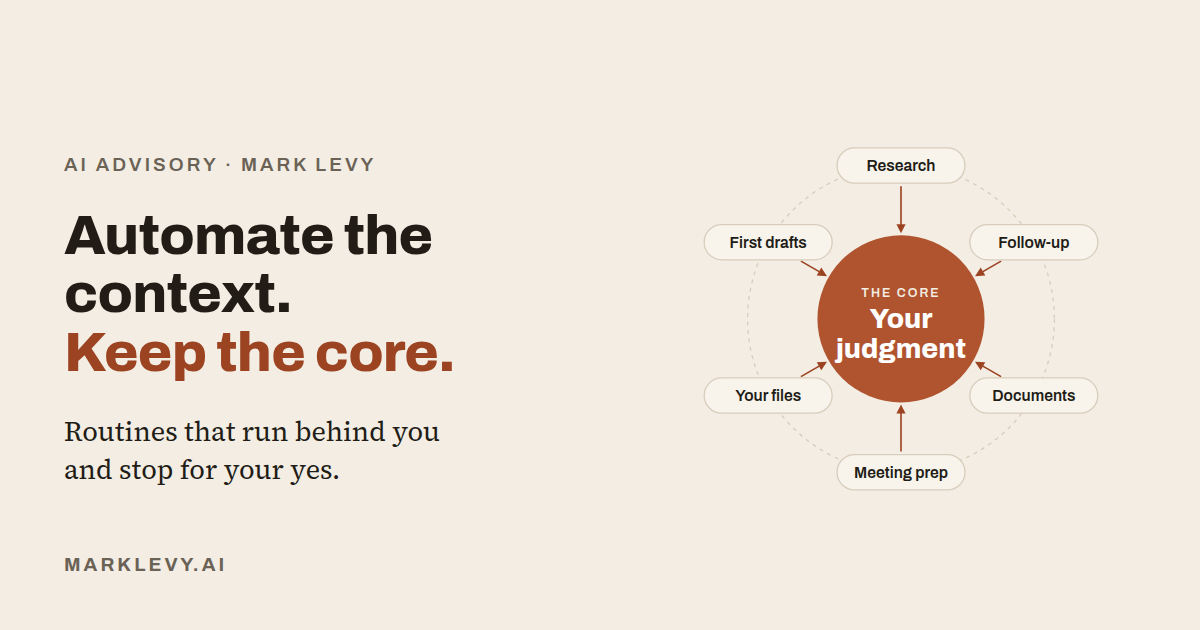
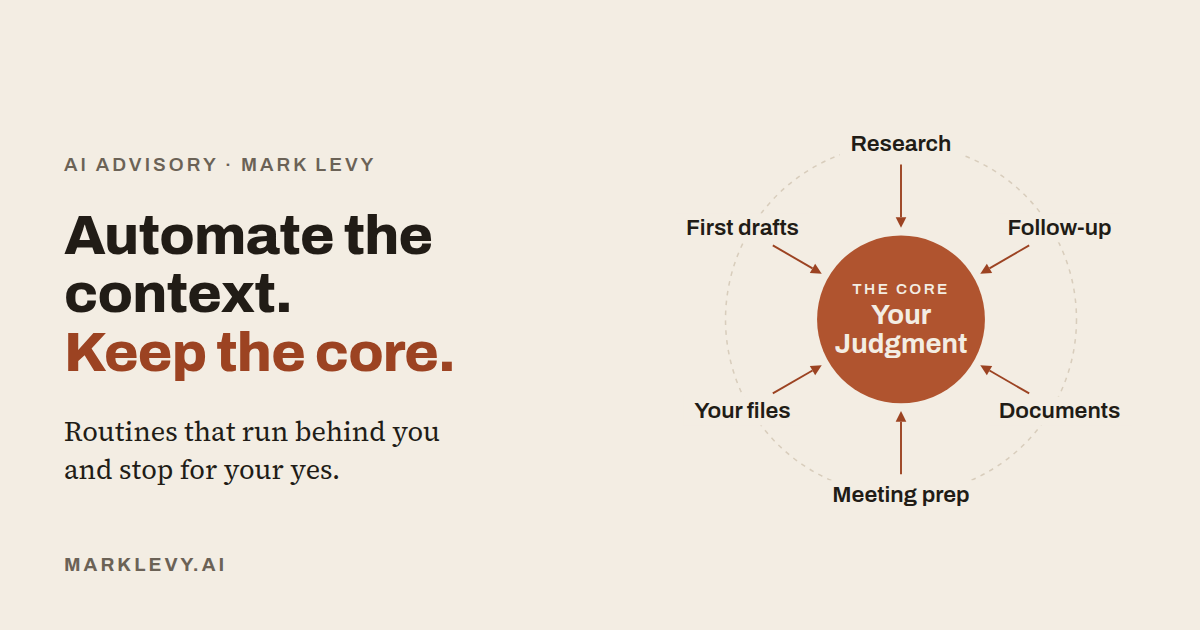
Hero rebalance (design review): align to nav, pin figure to headline, lighter figure
From an independent design review of the hero:
- Hero container back to the nav's 66rem so the left edges line up
  (the 76rem hero sat 80px left of the logo at 1440).
- Hero text becomes grid rows (.hero-text { display: contents }); the
  figure is pinned to the headline's top and spans headline + subtitle,
  so the two columns read as one composition instead of a figure
  floating mid-height. Headline 2.7rem at 1100px+ keeps the 4-line
  sentence breaks in the narrower column and brings the CTA above a
  900px-tall laptop fold.
- Figure redrawn: no pill boxes (labels sit on the ring with paper
  knockouts, like the ledger figure), disc r=110, even 60-69px spokes,
  viewBox cropped to the drawing; labels ~17px on phones (were ~11px);
  kicker and words share one paper color.
- Disc label "Your Judgment" in title case (owner decision).
- images/og/home.png re-rendered from the new figure.

Claude-Session: https://claude.ai/code/session_01YChwobwTdEwcPZCWvJAq1B

diff --git a/index.html b/index.html
@@ -160,28 +160,37 @@
             </div>
             </div>
             <!-- Core vs. context figure (2026-10-02). The positioning in one picture: routines run in the
-                 ring, every arrow ends at the owner's judgment. Labels mirror the subtitle; keep them in step. -->
+                 ring, every arrow ends at the owner's judgment. Labels mirror the subtitle; keep them in step.
+                 Labels sit on the ring with a paper-colored knockout behind each one (no boxes: the ledger
+                 figure's language is hairlines, type and one accent). Geometry is generated from measured
+                 label widths; the viewBox is cropped to the drawing, center at (360,320). -->
             <figure class="hero-figure">
-                <svg viewBox="0 0 720 640" role="img" aria-labelledby="core-title core-desc" xmlns="http://www.w3.org/2000/svg">
+                <svg viewBox="52 56 616 528" role="img" aria-labelledby="core-title core-desc" xmlns="http://www.w3.org/2000/svg">
                     <title id="core-title">The core and the context</title>
                     <desc id="core-desc">A solid circle in the center labeled the core: your judgment. Around it, a dashed ring of six kinds of context work: research, follow-up, documents, meeting preparation, your files, and first drafts. An arrow runs from each one inward to the core, because every routine stops for your approval.</desc>
-                    <circle class="core-ring" cx="360" cy="320" r="235"/>
-                    <path class="ctx-spoke" d="M 360.0 117.0 L 360.0 176.0"/><polygon class="ctx-arrowhead" points="360.0,189.0 353.0,175.0 367.0,175.0"/>
-                    <path class="ctx-spoke" d="M 513.3 231.5 L 484.7 248.0"/><polygon class="ctx-arrowhead" points="473.4,254.5 482.1,241.4 489.1,253.6"/>
-                    <path class="ctx-spoke" d="M 513.3 408.5 L 484.7 392.0"/><polygon class="ctx-arrowhead" points="473.4,385.5 489.1,386.4 482.1,398.6"/>
-                    <path class="ctx-spoke" d="M 360.0 523.0 L 360.0 464.0"/><polygon class="ctx-arrowhead" points="360.0,451.0 367.0,465.0 353.0,465.0"/>
-                    <path class="ctx-spoke" d="M 206.7 408.5 L 235.3 392.0"/><polygon class="ctx-arrowhead" points="246.6,385.5 237.9,398.6 230.9,386.4"/>
-                    <path class="ctx-spoke" d="M 206.7 231.5 L 235.3 248.0"/><polygon class="ctx-arrowhead" points="246.6,254.5 230.9,253.6 237.9,241.4"/>
-                    <rect class="ctx-pill" x="262.0" y="58.0" width="196" height="54" rx="27"/><text class="ctx-label" x="360.0" y="93.5" text-anchor="middle">Research</text>
-                    <rect class="ctx-pill" x="465.5" y="175.5" width="196" height="54" rx="27"/><text class="ctx-label" x="563.5" y="211.0" text-anchor="middle">Follow-up</text>
-                    <rect class="ctx-pill" x="465.5" y="410.5" width="196" height="54" rx="27"/><text class="ctx-label" x="563.5" y="446.0" text-anchor="middle">Documents</text>
-                    <rect class="ctx-pill" x="262.0" y="528.0" width="196" height="54" rx="27"/><text class="ctx-label" x="360.0" y="563.5" text-anchor="middle">Meeting prep</text>
-                    <rect class="ctx-pill" x="58.5" y="410.5" width="196" height="54" rx="27"/><text class="ctx-label" x="156.5" y="446.0" text-anchor="middle">Your files</text>
-                    <rect class="ctx-pill" x="58.5" y="175.5" width="196" height="54" rx="27"/><text class="ctx-label" x="156.5" y="211.0" text-anchor="middle">First drafts</text>
-                    <circle class="core-disc" cx="360" cy="320" r="128"/>
-                    <text class="core-kicker" x="360" y="290" text-anchor="middle">THE CORE</text>
-                    <text class="core-word" x="360" y="331" text-anchor="middle">Your</text>
-                    <text class="core-word" x="360" y="370" text-anchor="middle">judgment</text>
+                    <circle class="core-ring" cx="360" cy="320" r="230"/>
+                    <rect class="ctx-knockout" x="279.9" y="71.0" width="160.2" height="38"/>
+                    <path class="ctx-spoke" d="M 360.0 117.0 L 360.0 186.0"/><polygon class="ctx-arrowhead" points="360.0,200.0 367.0,186.0 353.0,186.0"/>
+                    <text class="ctx-label" x="360.0" y="90.0" text-anchor="middle" dominant-baseline="central">Research</text>
+                    <rect class="ctx-knockout" x="485.7" y="181.0" width="164.2" height="38"/>
+                    <path class="ctx-spoke" d="M 528.0 223.0 L 476.0 253.0"/><polygon class="ctx-arrowhead" points="463.9,260.0 479.5,259.1 472.5,246.9"/>
+                    <text class="ctx-label" x="567.8" y="200.0" text-anchor="middle" dominant-baseline="central">Follow-up</text>
+                    <rect class="ctx-knockout" x="474.2" y="421.0" width="187.4" height="38"/>
+                    <path class="ctx-spoke" d="M 528.0 417.0 L 476.0 387.0"/><polygon class="ctx-arrowhead" points="463.9,380.0 472.5,393.1 479.5,380.9"/>
+                    <text class="ctx-label" x="567.8" y="440.0" text-anchor="middle" dominant-baseline="central">Documents</text>
+                    <rect class="ctx-knockout" x="256.0" y="531.0" width="208.0" height="38"/>
+                    <path class="ctx-spoke" d="M 360.0 523.0 L 360.0 454.0"/><polygon class="ctx-arrowhead" points="360.0,440.0 353.0,454.0 367.0,454.0"/>
+                    <text class="ctx-label" x="360.0" y="550.0" text-anchor="middle" dominant-baseline="central">Meeting prep</text>
+                    <rect class="ctx-knockout" x="75.0" y="421.0" width="154.3" height="38"/>
+                    <path class="ctx-spoke" d="M 192.0 417.0 L 244.0 387.0"/><polygon class="ctx-arrowhead" points="256.1,380.0 240.5,380.9 247.5,393.1"/>
+                    <text class="ctx-label" x="152.2" y="440.0" text-anchor="middle" dominant-baseline="central">Your files</text>
+                    <rect class="ctx-knockout" x="64.1" y="181.0" width="176.1" height="38"/>
+                    <path class="ctx-spoke" d="M 192.0 223.0 L 244.0 253.0"/><polygon class="ctx-arrowhead" points="256.1,260.0 247.5,246.9 240.5,259.1"/>
+                    <text class="ctx-label" x="152.2" y="200.0" text-anchor="middle" dominant-baseline="central">First drafts</text>
+                    <circle class="core-disc" cx="360" cy="320" r="110"/>
+                    <text class="core-kicker" x="360" y="287" text-anchor="middle">THE CORE</text>
+                    <text class="core-word" x="360" y="326" text-anchor="middle">Your</text>
+                    <text class="core-word" x="360" y="364" text-anchor="middle">Judgment</text>
                 </svg>
             </figure>
         </div>

diff --git a/styles.css b/styles.css
@@ -772,26 +772,35 @@ a.article-card:hover { border-color: var(--accent); }
 }
 .home-figure figcaption { font-size: 0.92rem; line-height: 1.55; color: var(--muted); margin-top: 0.9em; }
 
-/* Hero: text + "core vs. context" figure side by side when there is room */
+/* Hero: text + "core vs. context" figure side by side when there is room.
+   The hero keeps the nav's measure so the page edges line up. The text block becomes
+   display: contents, so eyebrow / title / subtitle / CTA are grid rows and the figure is
+   pinned to the title's top edge and the subtitle's bottom — a headline with its
+   illustration, not two objects floating against each other. */
 .hero-figure { max-width: 26rem; margin: 3rem 0 0; }
+.hero-figure svg { display: block; width: 100%; height: auto; }
 @media (min-width: 1100px) {
     .hero .container {
-        max-width: 76rem;
+        max-width: var(--measure-wide);
         display: grid;
-        grid-template-columns: minmax(0, 1.15fr) minmax(0, 1fr);
-        column-gap: 4rem;
-        align-items: center;
+        grid-template-columns: minmax(0, 1.1fr) minmax(0, 1fr);
+        column-gap: 3.5rem;
+        align-items: start;
     }
-    /* Wider hero + a larger figure so it holds its own against the text column (2026-10-02). */
-    .hero-figure { margin: 0; max-width: none; }
+    .hero-text { display: contents; }
+    .hero-text > * { grid-column: 1; }
+    .hero-figure { grid-column: 2; grid-row: 2 / span 2; align-self: start; margin: 0; max-width: none; }
+    /* Largest size that keeps the title's four-line break in the narrower column
+       (sentence break = line break, the accent sentence starts a line). */
+    .hero-title { font-size: 2.7rem; }
 }
 
 .core-ring { fill: none; stroke: var(--hairline); stroke-width: 2; stroke-dasharray: 6 7; }
 .core-disc { fill: var(--accent); }
-.core-kicker { font-family: var(--display); font-weight: 600; font-size: 19px; letter-spacing: 0.16em; fill: var(--paper); }
-.core-word { font-family: var(--display); font-weight: 700; font-size: 35px; fill: #ffffff; }
-.ctx-pill { fill: var(--paper-raised); stroke: var(--hairline); stroke-width: 2; }
-.ctx-label { font-family: var(--display); font-weight: 600; font-size: 24px; fill: var(--ink); }
+.core-kicker { font-family: var(--display); font-weight: 600; font-size: 20px; letter-spacing: 0.16em; fill: var(--paper); }
+.core-word { font-family: var(--display); font-weight: 700; font-size: 36px; fill: var(--paper); }
+.ctx-knockout { fill: var(--paper); } /* breaks the ring behind each label */
+.ctx-label { font-family: var(--display); font-weight: 600; font-size: 30px; fill: var(--ink); }
 .ctx-spoke { fill: none; stroke: var(--accent-text); stroke-width: 2.5; }
 .ctx-arrowhead { fill: var(--accent-text); }
 
